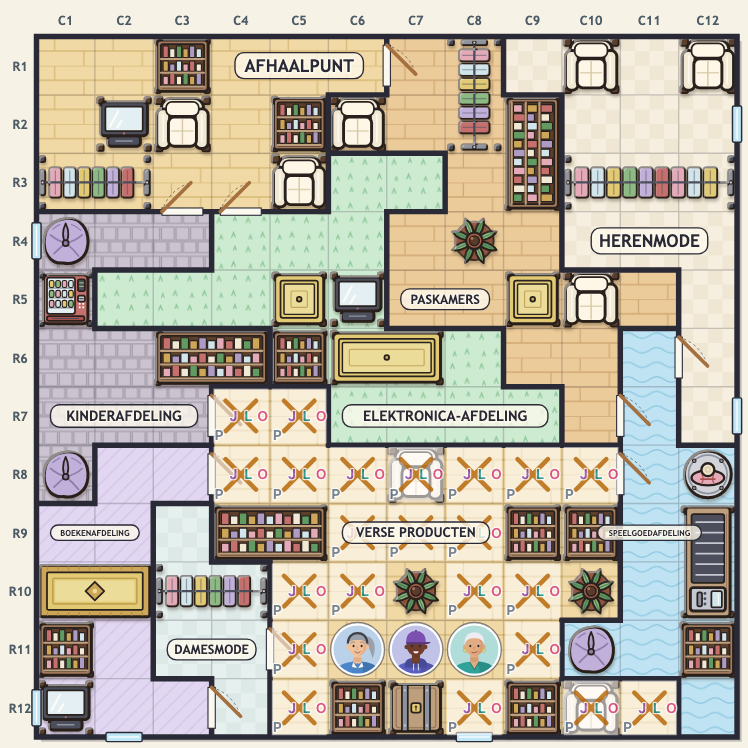
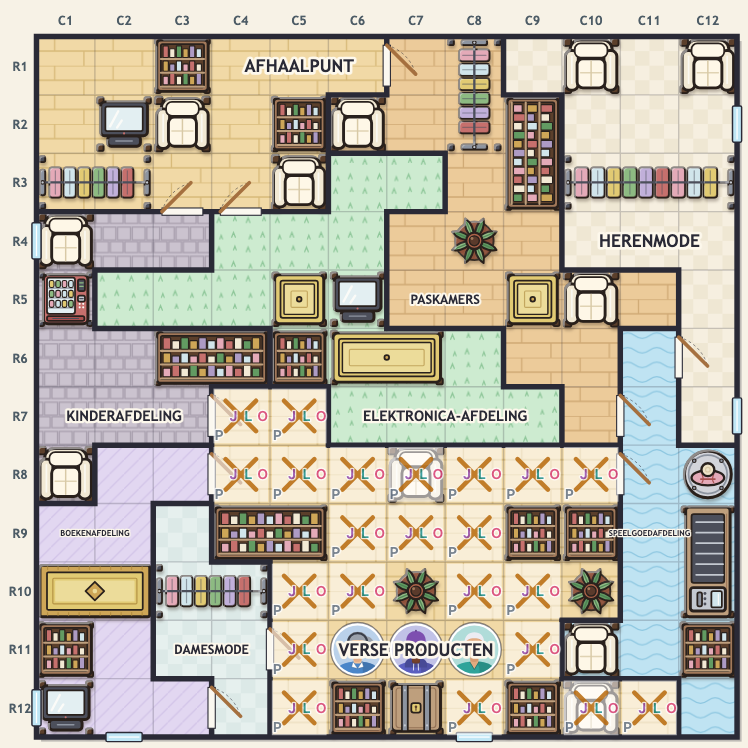
feat(labels): ship treatment B, halo and no pill, labels above marks and people (SLAY-17.5)

diff --git a/src/render/scene/layers/RoomLabels.tsx b/src/render/scene/layers/RoomLabels.tsx
@@ -1,44 +1,29 @@
-import type { Cell, Scene } from '../../../engine/model/index.ts'
+import type { Scene } from '../../../engine/model/index.ts'
 import type { Locale } from '../../../locale/types.ts'
 import type { SceneGeometry } from '../geometry.ts'
 import { LABEL_LINE_HEIGHT, roomLabelLayout } from '../labels.ts'
 import { THEME } from '../theme.ts'
 
-/** The pill lets a placed person under it show through; the text carries its own halo, so it reads either way. */
-const PILL_OPACITY = 0.78
-
 const round = (n: number) => Math.round(n * 100) / 100
 
-export function RoomLabels({ scene, geometry, locale = 'en', avoid }: { scene: Scene; geometry: SceneGeometry; locale?: Locale; avoid?: readonly Cell[] }) {
+export function RoomLabels({ scene, geometry, locale = 'en' }: { scene: Scene; geometry: SceneGeometry; locale?: Locale }) {
   const size = geometry.cellSize
   return (
     <g data-layer="room-labels" pointerEvents="none">
       {scene.rooms.map((room) => {
-        const label = roomLabelLayout(scene, room.id, locale, avoid)
+        const label = roomLabelLayout(scene, room.id, locale)
         if (!label) return null
         const centre = geometry.toPoint(label.center.x, label.center.y)
-        const w = round(label.width * size)
-        const h = round(label.height * size)
         const font = round(label.fontSize * size)
         const lineGap = round(font * LABEL_LINE_HEIGHT)
         const firstLineY = -((label.lines.length - 1) * lineGap) / 2
+        // No pill: the paper-coloured halo around the text keeps it readable over marks and people (SLAY-17.5).
         return (
           <g
             key={room.id}
             data-room-label={room.id}
             transform={`translate(${centre.x} ${centre.y})`}
           >
-            <rect
-              x={-w / 2}
-              y={-h / 2}
-              width={w}
-              height={h}
-              rx={Math.min(h / 2, 10)}
-              fill={THEME.labelFill}
-              fillOpacity={PILL_OPACITY}
-              stroke={THEME.wall}
-              strokeWidth={1.5}
-            />
             <text
               textAnchor="middle"
               fontFamily={THEME.fontFamily}
@@ -46,7 +31,7 @@ export function RoomLabels({ scene, geometry, locale = 'en', avoid }: { scene: S
               fontSize={font}
               fill={THEME.labelInk}
               stroke={THEME.labelFill}
-              strokeWidth={font * 0.2}
+              strokeWidth={font * 0.32}
               strokeLinejoin="round"
               paintOrder="stroke"
             >

diff --git a/src/render/scene/labels.test.ts b/src/render/scene/labels.test.ts
@@ -1,9 +1,6 @@
 import { describe, expect, it } from 'vitest'
 import { demoScene } from '../../content/demo/scene.ts'
-import { cellKey, cellsInRoom } from '../../engine/model/index.ts'
 import { bareRoomName, roomLabelLayout } from './labels.ts'
-
-const cellsInRoomOf = (roomId: string) => cellsInRoom(demoScene, roomId)
 
 describe('room labels drop the article of a stored room name', () => {
   it('strips the article', () => {
@@ -36,22 +33,5 @@ describe('room labels drop the article of a stored room name', () => {
     const scene = { ...demoScene, rooms: [{ id: 'kitchen', name: 'Not A Real Room' }] }
     const label = roomLabelLayout(scene, 'kitchen', 'nl')!
     expect(label.lines.join(' ')).toBe('NOT A REAL ROOM')
-  })
-
-  it('keeps the label off the squares where the player has placed people, when the room has other free squares (SLAY-17.5)', () => {
-    const room = demoScene.rooms.find((r) => cellsInRoomOf(r.id).length >= 4)!
-    const plain = roomLabelLayout(demoScene, room.id)!
-    const cells = cellsInRoomOf(room.id)
-    const onLabel = cells.filter((c) => c.row === plain.run.row && c.col >= plain.run.fromCol && c.col <= plain.run.toCol)
-    const moved = roomLabelLayout(demoScene, room.id, 'en', onLabel)!
-    const placed = new Set(onLabel.map(cellKey))
-    const free = cells.some((c) => !placed.has(cellKey(c)) && !demoScene.objects.some((o) => o.cells.some((oc) => cellKey(oc) === cellKey(c))))
-    expect(free).toBe(true)
-    for (let col = moved.run.fromCol; col <= moved.run.toCol; col++) expect(placed.has(cellKey({ row: moved.run.row, col }))).toBe(false)
-  })
-
-  it('still places a label when every free square holds a person', () => {
-    const everything = demoScene.rooms.flatMap((r) => cellsInRoomOf(r.id))
-    for (const room of demoScene.rooms) expect(roomLabelLayout(demoScene, room.id, 'en', everything)).toBeDefined()
   })
 })

diff --git a/src/render/scene/SceneView.tsx b/src/render/scene/SceneView.tsx
@@ -32,8 +32,6 @@ export interface SceneViewProps {
   title?: string
   /** Language the room labels draw in (SLAY-5.2). Default 'en'. */
   locale?: Locale
-  /** Squares that hold a placed person: room labels keep clear of them when they can. */
-  labelAvoid?: readonly Cell[]
 }
 
 function resolve(content: LayerContent, geometry: SceneGeometry): ReactNode {
@@ -44,8 +42,7 @@ function resolve(content: LayerContent, geometry: SceneGeometry): ReactNode {
  * Draws a Scene as one scalable SVG (viewBox based, fills its container's
  * width). Paint order, bottom to top: shadow, floors, grid, objects, walls, edge features,
  * room labels, marks, people, axis labels, per-cell hit rects. Room labels sit
- * on top of marks and people (SLAY-17.5) so the name stays readable in a room the player has filled in; they keep clear of placed
- * people when the room has other free squares (`labelAvoid`), and the pill is see-through so a person under it still shows.
+ * on top of marks and people (SLAY-17.5) with a paper-coloured halo and no pill, so the name stays readable in a room the player has filled in.
  */
 export function SceneView({
   scene,
@@ -55,7 +52,6 @@ export function SceneView({
   marksLayer,
   peopleLayer,
   onCellClick,
-  labelAvoid,
   className,
   title = 'Crime scene',
   locale = 'en',
@@ -92,7 +88,7 @@ export function SceneView({
       <g data-layer="people" pointerEvents="none">
         {peopleLayer && resolve(peopleLayer, geometry)}
       </g>
-      <RoomLabels scene={scene} geometry={geometry} locale={locale} avoid={labelAvoid} />
+      <RoomLabels scene={scene} geometry={geometry} locale={locale} />
       {showAxisLabels && <AxisLabels geometry={geometry} />}
       <HitLayer geometry={geometry} onCellClick={onCellClick} />
     </svg>

diff --git a/src/render/scene/labels.ts b/src/render/scene/labels.ts
@@ -92,16 +92,13 @@ function fitFont(lines: string[], available: number): number {
  * text uses (`roomNameNlOf`, content/themes/index.ts) — never a second translation;
  * a name no theme defines falls back to the bare English noun, exactly as `'en'` does.
  */
-export function roomLabelLayout(scene: Scene, roomId: string, locale: Locale = 'en', avoid: readonly Cell[] = []): RoomLabelLayout | undefined {
+export function roomLabelLayout(scene: Scene, roomId: string, locale: Locale = 'en'): RoomLabelLayout | undefined {
   const room = scene.rooms.find((r) => r.id === roomId)
   const cells = cellsInRoom(scene, roomId)
   if (!room || cells.length === 0) return undefined
 
   const covered = new Set(scene.objects.flatMap((o) => o.cells.map(cellKey)))
-  // Squares the player keeps something on (placed people) are avoided as well, when the room has room for it.
-  const occupied = new Set([...covered, ...avoid.map(cellKey)])
-  let runs = rowRuns(scene, roomId, occupied)
-  if (runs.length === 0) runs = rowRuns(scene, roomId, covered)
+  let runs = rowRuns(scene, roomId, covered)
   if (runs.length === 0) runs = rowRuns(scene, roomId, new Set())
 
   const mid = centroid(cells)

diff --git a/docs/verification/labelshots.ts b/docs/verification/labelshots.ts
@@ -1,6 +1,6 @@
 // Rendered check of the room labels (SLAY-17.5): a room the PLAYER has filled in -- people placed on its squares, X marks of the selected suspect
 // and candidate notes everywhere -- at 360, 390, 768 and 1024 wide in en and nl. Screenshots of the whole board and a crop of the crowded room's
-// label, plus a probe of the label's contrast against what is drawn under it. Drives headless Chrome over the DevTools protocol.
+// label.
 // Usage (repo root): bun run build && bunx vite preview --port 5417 &
 //   BASE=http://localhost:5417/ CDP_PORT=9477 OUT=/private/tmp/claude-501/w-17.5/after bun docs/verification/labelshots.ts
 // Env: DATES (comma list), BASE, CDP_PORT, OUT.

diff --git a/src/ui/play/Board.tsx b/src/ui/play/Board.tsx
@@ -133,7 +133,6 @@ export function Board({ puzzle, board, tool, selectedId, tags, colors, cast, hin
           showAxisLabels={showAxisLabels}
           title={t.board}
           locale={locale}
-          labelAvoid={Object.values(board.placements)}
           objectsLayer={(g) => <SceneObjectIcons objects={puzzle.scene.objects} geometry={g} themeIcons={themeIcons} />}
           marksLayer={(g) => (
             <>

diff --git a/docs/handoff.md b/docs/handoff.md
@@ -11,7 +11,7 @@ Objects on the board and in the legend are drawn with a screen-space SVG depth f
 
 Open items found by the SLAY-16.9 check, not fixed there (details in docs/design/depth.md):
 - Legend swatches clipped the ground shadow: fixed in SLAY-16.10 (padded viewBox, see docs/design/depth.md).
-- Room labels vs. the player's own marks (SLAY-17.5; the first reading of this story, objects under labels, was not the real problem): on the play board people, X marks and notes were drawn over the room name, so a room the player had filled in lost its label. Now the labels are drawn above marks and people, with a see-through pill and a halo, and keep clear of squares with a placed person when the room has other free squares (`avoid` in `roomLabelLayout`, `labelAvoid` on `SceneView`). Compared treatments and screenshots: `docs/design/label-treatments/`; the check is `docs/verification/labelshots.ts` (seeds a crowded board). The "Speelgoedafdeling" overlap with the bookshelf is not changed by this; owner approval of the look is still pending.
+- Room labels vs. the player's own marks (SLAY-17.5; the first reading of this story, objects under labels, was not the real problem): on the play board people, X marks and notes were drawn over the room name, so a room the player had filled in lost its label. Now the labels are drawn above marks and people with a paper-coloured halo and no pill (treatment B, chosen by the owner from a side-by-side comparison of four). Compared treatments and screenshots: `docs/design/label-treatments/`; the check is `docs/verification/labelshots.ts` (seeds a crowded board). The "Speelgoedafdeling" overlap with the bookshelf is not changed by this; the owner chose treatment B.
 - Board shadow at the viewBox edge: fine (margin 12 against about 7). Performance: no task over 100 ms; the filter roughly doubles to triples raster time on software raster, see the design doc.
 - `bun run verify:phone`: the `drive` suite is stale on main (it fails at the result screen, known since SLAY-9.13/9.15); `legend`, `screens` and `zoom` pass at 360, 390, 768 and 1024; `locale` is stale too (cannot find the Dutch "Meer" tool). Both stale drivers need their own repair story.
 - When running drivers, start the preview server on a port nobody else uses: port 5231 was another worker's dev server and silently served its code.
